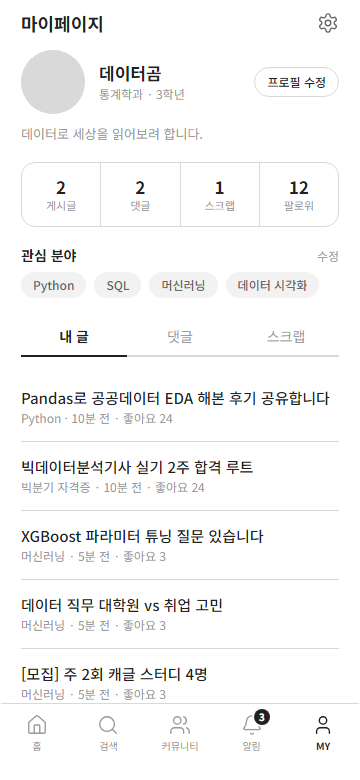
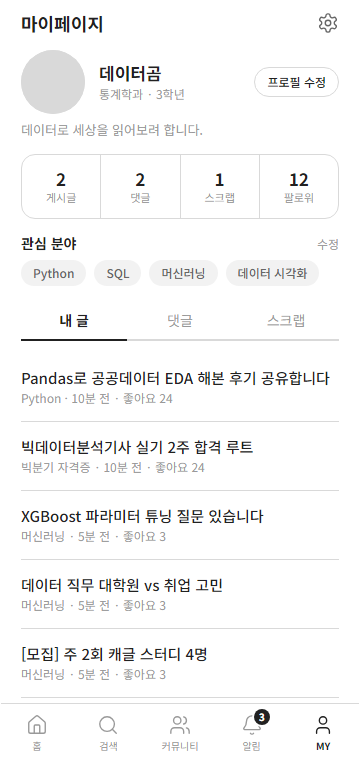
fix(client): pixel-diff audit found real vertical-rhythm bugs on A-02/A-07
Eyeballed side-by-side screenshots weren't sensitive enough to catch
these; overlaying Figma and local renders with per-pixel diffing (after
correcting for the 38px status bar Figma includes and we don't) showed
clear misalignment on two screens, confirmed with exact getBoundingClientRect
measurements against the Figma coordinates:

- A-02 login: top/bottom spacers were both flex-1, splitting remaining
  space evenly. But Figma's mock has ~108px of social-login content
  (excluded here, documented) between the button and the bottom spacer,
  so an even split pushes the title ~28px lower than Figma's actual
  position. Fixed the top spacer to Figma's own rectangle height
  (119.5px) and left the bottom flex-1 to absorb the rest — title now
  lands within 1px of the Figma target.
- A-07 mypage: the section gap was 20px; Figma's is 16px throughout,
  compounding into a growing drift by the time you reach the tabs and
  post list. Fixed to 16px.

Also verified (measured, not just eyeballed) that A-03's button, A-06's
FAB, and A-09's title position are all within 1px of Figma already —
the diff-heatmap "doubling" on those was from real content differing in
size from Figma's placeholder bars/boxes, not a layout bug.

diff --git a/client/src/aplan/screens/LoginScreen.tsx b/client/src/aplan/screens/LoginScreen.tsx
@@ -56,8 +56,10 @@ export function LoginScreen({ onLogin, onRegister, onFindPassword }: LoginScreen
         noValidate
         className="flex min-h-dvh flex-1 flex-col items-start gap-[14px] px-[20px] py-[12px]"
       >
-        {/* 2:10 위쪽 여백 */}
-        <div className="min-h-px flex-1" aria-hidden />
+        {/* 2:10 위쪽 여백. Figma 원본엔 이 아래 소셜 로그인 버튼 3개가 더 있어서(주석 참고, 넣지 않음)
+            위아래를 flex-1로 반씩 나누면 소셜 로그인만큼 위로 더 밀려 내려간다. 실제 배치와 맞도록
+            Figma 사각형 높이(119.5px) 그대로 고정하고, 아래쪽만 flex-1로 나머지 공간을 흡수한다. */}
+        <div className="h-[119.5px] shrink-0" aria-hidden />
         {/* 2:11 제목 */}
         <h1 className="m-0 w-full text-[26px] leading-[31px] font-bold" style={{ color: "var(--a-color-text-primary)" }}>
           다시 만나서

diff --git a/client/src/aplan/screens/MyScreen.tsx b/client/src/aplan/screens/MyScreen.tsx
@@ -64,7 +64,7 @@ export function MyScreen({ onOpenPost, onEditProfile, onEditInterests, onOpenSet
         <IconButton icon={Settings} label="설정" onClick={onOpenSettings} />
       </header>
 
-      <main className="flex min-h-0 w-full flex-1 flex-col items-start gap-[20px] overflow-y-auto px-[20px] py-[4px] pb-[24px]">
+      <main className="flex min-h-0 w-full flex-1 flex-col items-start gap-[16px] overflow-y-auto px-[20px] py-[4px] pb-[24px]">
         {meError && <ErrorState message={meError} onRetry={loadMe} />}
 
         {!meError && (
